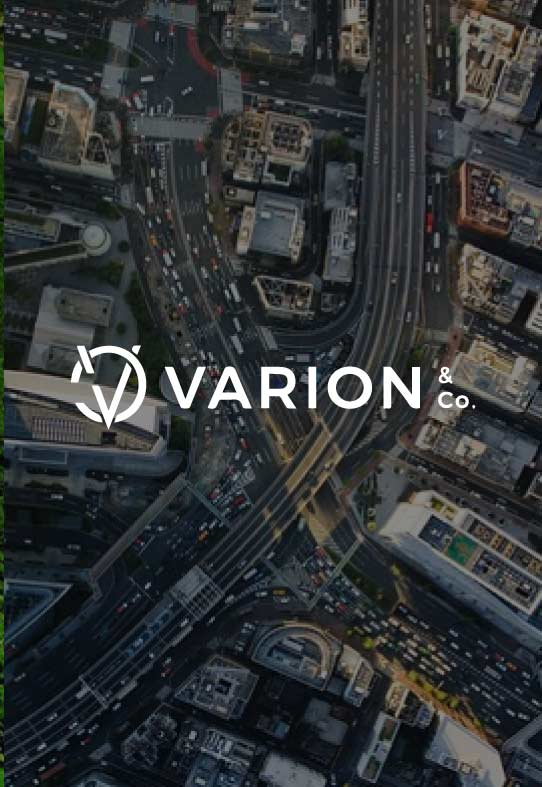
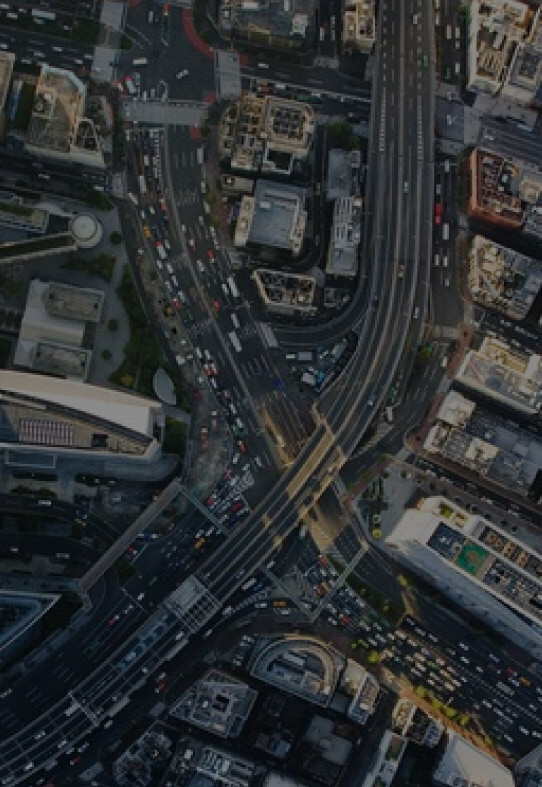
update

diff --git a/resources/sass/pages/_home.scss b/resources/sass/pages/_home.scss
@@ -29,7 +29,7 @@ header{
                 top: 50%;
                 left: 10%;
                 display: inline-block;
-                width: 30%;
+                width: 45%;
                 transform: translateY(-50%);
                 h1{
                     color: white;
@@ -37,7 +37,7 @@ header{
             }
             .left-img{
                 width: 65%;
-                // height: 340px;
+                position: relative;
                 img{
                     height: 100%;
                     object-fit: cover;
@@ -45,10 +45,19 @@ header{
             }
             .right-img{
                 width: 35%;
-                // height: 340px;
+                position: relative;
                 img{
                     height: 100%;
                     object-fit: cover;
+                }
+                .logo_varion{
+                    position: absolute;
+                    top: 50%;
+                    left: 50%;
+                    transform: translate(-50%,-50%);
+                    img{
+                        width: 300px;
+                    }
                 }
             }
         }

diff --git a/public/css/main.css b/public/css/main.css
@@ -716,7 +716,7 @@ header .homeHeaderSlider-item--desc {
   top: 50%;
   left: 10%;
   display: inline-block;
-  width: 30%;
+  width: 45%;
   transform: translateY(-50%);
 }
 header .homeHeaderSlider-item--desc h1 {
@@ -724,6 +724,7 @@ header .homeHeaderSlider-item--desc h1 {
 }
 header .homeHeaderSlider-item .left-img {
   width: 65%;
+  position: relative;
 }
 header .homeHeaderSlider-item .left-img img {
   height: 100%;
@@ -732,11 +733,21 @@ header .homeHeaderSlider-item .left-img img {
 }
 header .homeHeaderSlider-item .right-img {
   width: 35%;
+  position: relative;
 }
 header .homeHeaderSlider-item .right-img img {
   height: 100%;
   -o-object-fit: cover;
      object-fit: cover;
+}
+header .homeHeaderSlider-item .right-img .logo_varion {
+  position: absolute;
+  top: 50%;
+  left: 50%;
+  transform: translate(-50%, -50%);
+}
+header .homeHeaderSlider-item .right-img .logo_varion img {
+  width: 300px;
 }
 header .homeHeaderSlider .slick-dots {
   position: absolute;

diff --git a/resources/views/v_home.blade.php b/resources/views/v_home.blade.php
@@ -12,7 +12,11 @@
                             <div class="learn__button"><a href="{{route('home')}}">LEARN MORE</a></div>
                         </div>
                     </div>
-                    <div class="right-img"><img src="{{asset('images/home2.jpg')}}" alt="fume-img1" width="100%"></div>
+                    <div class="right-img"><img src="{{asset('images/home2.jpg')}}" alt="fume-img1" width="100%">
+                        <div class="logo_varion">
+                            <img class="" src="{{asset('images/varion_logo_white.png')}}" alt="">
+                        </div>
+                    </div>
                 </li>
             @endforeach
         </ul>
